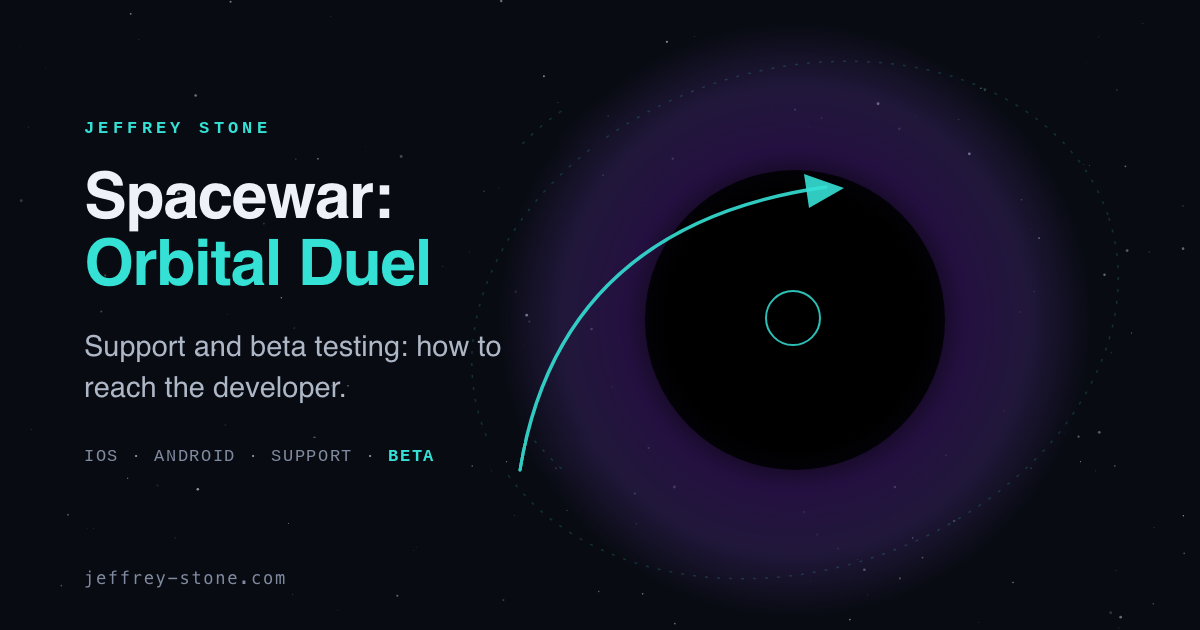
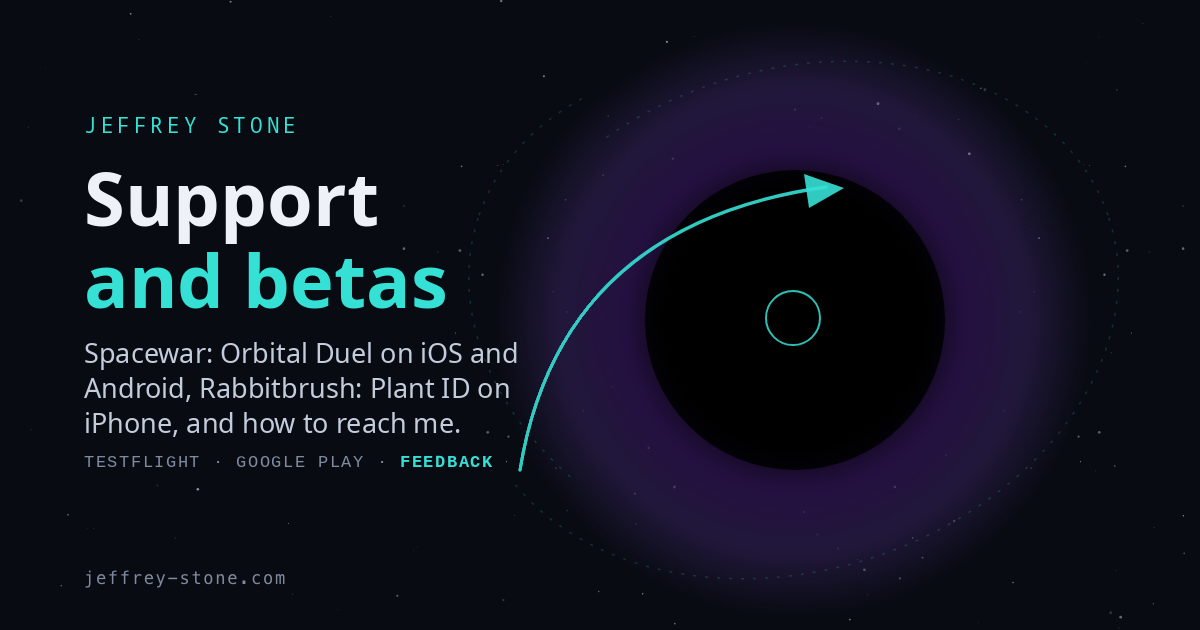
Publish site

diff --git a/support/index.html b/support/index.html
@@ -3,21 +3,21 @@
 <head>
 <meta charset="utf-8">
 <meta name="viewport" content="width=device-width, initial-scale=1">
-<title>Spacewar support | Jeffrey Stone</title>
-<meta name="description" content="Join the Spacewar: Orbital Duel beta on iOS (TestFlight) or Android (Google Play), and how to send feedback to the developer.">
+<title>Support | Jeffrey Stone</title>
+<meta name="description" content="Join the betas: Spacewar: Orbital Duel on iOS (TestFlight) or Android (Google Play), Rabbitbrush: Plant ID on iPhone (TestFlight), and how to send feedback to the developer.">
 <meta name="color-scheme" content="dark">
-<meta property="og:title" content="Support | Spacewar: Orbital Duel">
-<meta property="og:description" content="How to reach the developer and send beta feedback.">
+<meta property="og:title" content="Support | Jeffrey Stone">
+<meta property="og:description" content="The betas for Spacewar: Orbital Duel and Rabbitbrush: Plant ID, and how to reach the developer.">
 <meta property="og:type" content="website">
 <meta property="og:site_name" content="Jeffrey Stone">
 <meta property="og:url" content="https://jeffrey-stone.com/support/">
 <meta property="og:image" content="https://jeffrey-stone.com/assets/og-support.png">
 <meta property="og:image:width" content="1200">
 <meta property="og:image:height" content="630">
-<meta property="og:image:alt" content="Spacewar: Orbital Duel. Support and beta testing: how to reach the developer.">
+<meta property="og:image:alt" content="Support and betas: Spacewar: Orbital Duel on iOS and Android, Rabbitbrush: Plant ID on iPhone, and how to reach the developer.">
 <meta name="twitter:card" content="summary_large_image">
-<meta name="twitter:title" content="Support | Spacewar: Orbital Duel">
-<meta name="twitter:description" content="How to reach the developer and send beta feedback.">
+<meta name="twitter:title" content="Support | Jeffrey Stone">
+<meta name="twitter:description" content="The betas for Spacewar: Orbital Duel and Rabbitbrush: Plant ID, and how to reach the developer.">
 <meta name="twitter:image" content="https://jeffrey-stone.com/assets/og-support.png">
 <link rel="icon" type="image/svg+xml" href="../assets/icon.svg">
 <link rel="icon" href="../assets/apple-touch-icon.png" sizes="180x180">
@@ -44,10 +44,19 @@
 
 <div class="page-head">
   <div class="wrap">
-    <p class="crumb"><a href="../spacewar/">&larr; Spacewar: Orbital Duel</a></p>
     <p class="eyebrow">Support &amp; feedback</p>
-    <h1>Flying an early build? Here's how to reach me</h1>
-    <p class="lede">The game opens with a hands-on tutorial; the <a href="../spacewar/">controls guide</a> is a quick reference. Your notes shape where it goes next.</p>
+    <h1>Testing an early build? Here's how to reach me</h1>
+    <p class="lede">Two apps are in beta: <a href="../spacewar/">Spacewar: Orbital Duel</a> on iPhone, iPad and Android, and <a href="../rabbitbrush/">Rabbitbrush: Plant ID</a> on iPhone. How to join each is below; your notes shape where they go next.</p>
+  </div>
+</div>
+
+<section id="spacewar">
+  <div class="wrap">
+    <div class="flag">
+      <p class="eyebrow" style="margin:0;">Spacewar: Orbital Duel</p>
+      <span class="badge">iOS &amp; Android Beta</span>
+    </div>
+    <p class="lede">The game opens with a hands-on tutorial; the <a href="../spacewar/">controls guide</a> is a quick reference.</p>
     <div class="cta-row" style="margin-top:22px;">
       <a class="btn btn-ghost" href="https://apps.apple.com/app/testflight/id899247664" target="_blank" rel="noopener">1 &middot; Get TestFlight</a>
       <a class="btn btn-primary" href="https://testflight.apple.com/join/bKWgvAwW" target="_blank" rel="noopener">2 &middot; Join the beta &rarr;</a>
@@ -61,7 +70,25 @@
     </div>
     <p class="mono-line muted" style="margin-top:12px; font-size:13px;">Open the link on your phone, signed in to the Google account you use for Play, accept the invitation, then install from the Play Store page it opens &middot; Android 10 or later.</p>
   </div>
-</div>
+</section>
+
+<section id="rabbitbrush">
+  <div class="wrap">
+    <div class="flag">
+      <p class="eyebrow" style="margin:0;">Rabbitbrush: Plant ID</p>
+      <span class="badge">iPhone Beta</span>
+    </div>
+    <p class="lede">A plant identifier for the western US: one photo, five ranked species. <a href="../rabbitbrush/">What it is</a>, and <a href="../rabbitbrush/support/">how the field check teaches the model</a>.</p>
+    <div class="cta-row" style="margin-top:22px;">
+<!-- rabbitbrush-join -->
+      <a class="btn btn-ghost" href="https://apps.apple.com/app/testflight/id899247664" target="_blank" rel="noopener">1 &middot; Get TestFlight</a>
+      <span class="btn btn-ghost" aria-disabled="true" style="opacity:.55; cursor:default;">2 &middot; Join the beta &middot; link coming</span>
+    </div>
+    <p class="mono-line muted" style="margin-top:12px; font-size:13px;">The public link is not open yet. Step 1 works now; step 2 lights up here when the link does &middot; iPhone, iOS 18 or later &middot; limited spots at first.</p>
+<!-- /rabbitbrush-join -->
+    <p class="mono-line muted" style="margin-top:6px; font-size:13px;">What the app keeps, and what it shares only if you say so: <a href="../rabbitbrush/privacy/">the privacy page</a>.</p>
+  </div>
+</section>
 
 <section>
   <div class="wrap">
@@ -70,16 +97,18 @@
         <h3>Send beta feedback</h3>
         <p>The fastest way to reach me, with your build details attached automatically:</p>
         <ul>
-          <li>In the app, take a screenshot &rarr; <b>Send Beta Feedback</b></li>
-          <li>Or use <b>Send Feedback</b> on Spacewar's TestFlight page</li>
+          <li>In either app, take a screenshot &rarr; <b>Send Beta Feedback</b></li>
+          <li>Or use <b>Send Feedback</b> on the app's TestFlight page</li>
           <li>On Android, email a screenshot to <a href="mailto:support@jeffrey-stone.com">support@jeffrey-stone.com</a></li>
+          <li>In Rabbitbrush, the field check under every result is the feedback that counts most</li>
         </ul>
         <p style="margin-top:16px;">Tell me what confused you, what felt good, and anything that broke.</p>
       </div>
       <div class="card">
         <h3>Get in touch</h3>
-        <p>Questions, bug reports, or anything else about Spacewar (Rabbitbrush has <a href="../rabbitbrush/support/">its own page</a>):</p>
+        <p>Questions, bug reports, or anything else about either app:</p>
         <p class="mono-line"><a href="mailto:support@jeffrey-stone.com">support@jeffrey-stone.com</a></p>
+        <p style="margin-top:16px;">For a bug report, include the app, the build (Settings shows it), the phone model and the OS version.</p>
       </div>
     </div>
   </div>
@@ -87,13 +116,9 @@
 
 <footer>
   <div class="wrap">
-    <div class="homage">
-      <p class="eyebrow">Standing on shoulders</p>
-      <p>A modern tribute to <em>Spacewar!</em>, created in 1962 by Steve Russell and friends on MIT's PDP&#8209;1, one of the first video games ever made. Sixty years on, the pull of the star still decides the duel.</p>
-    </div>
     <div class="foot-bar">
       <span>&copy; 2026 Jeffrey Stone</span>
-      <span class="free">Free forever · no ads · no tracking · <a class="tip" href="https://buymeacoffee.com/jeffreystone"><span class="tip-chip"><img src="../assets/bmc-logo.svg" alt=""></span>Buy me a Coffee</a></span>
+      <span class="free">Free forever · no ads · <a class="tip" href="https://buymeacoffee.com/jeffreystone"><span class="tip-chip"><img src="../assets/bmc-logo.svg" alt=""></span>Buy me a Coffee</a></span>
       <span>The mailbox is open: <a href="mailto:letters@jeffrey-stone.com">letters@jeffrey-stone.com</a></span>
     </div>
   </div>
